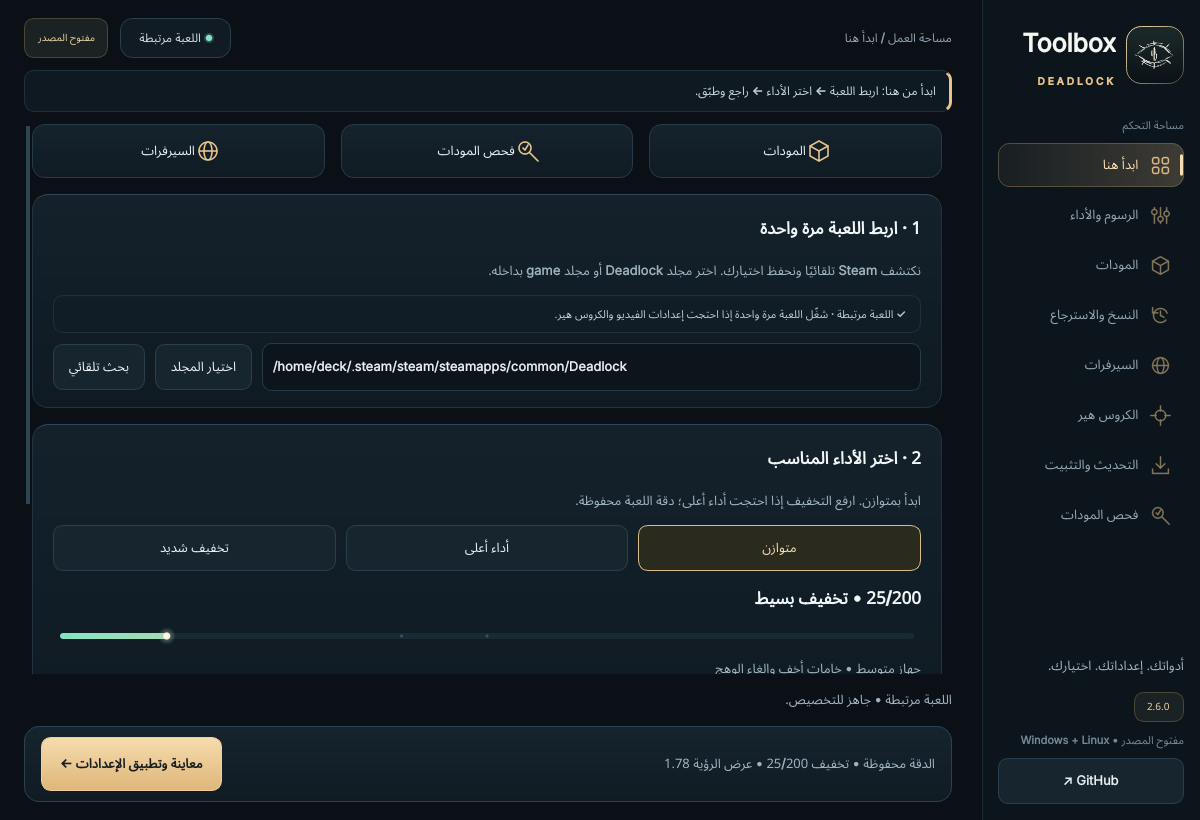
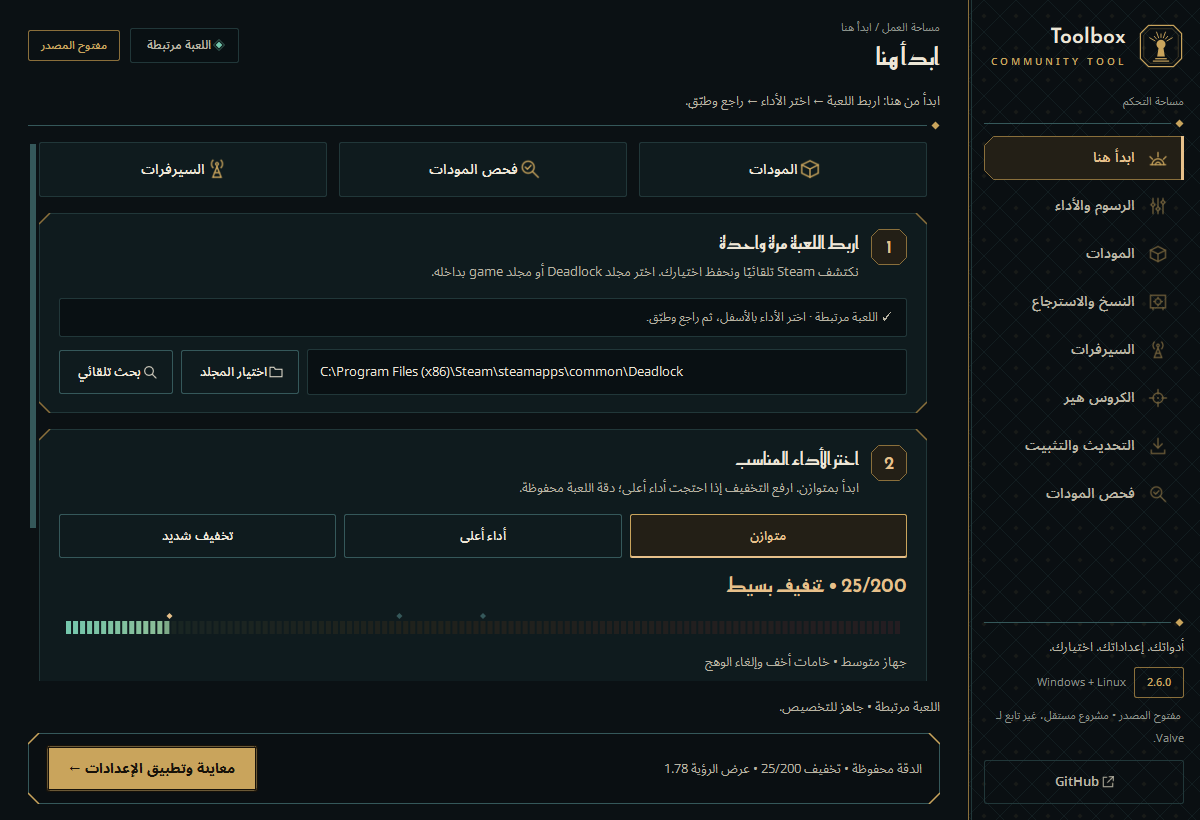
Polish: responsive toolbars, leading-aligned labels, empty and error states, new docs screenshots
Labels align to the layout's leading edge regardless of script; combos follow
their own direction; the drop zone, servers toolbar and crosshair toolbar
reflow at the 940x680 minimum; form columns centre on wide windows.
README, BUILD.md and all docs screenshots now show the new interface;
smoke_desktop.py checks the new asset paths.

diff --git a/deadlock_fps/server_ui.py b/deadlock_fps/server_ui.py
@@ -33,17 +33,17 @@ class ServerPage(QWidget):
 
         # Find and measure.
         row=QHBoxLayout();row.setSpacing(8);self.search=QLineEdit();self.search.setClearButtonEnabled(True);self.search.addAction(icon('search',T.TEXT_MUTED),QLineEdit.LeadingPosition);self.search.setPlaceholderText('ابحث بالعربي أو الإنجليزي: دبي، الإمارات، Frankfurt…');self.search.textChanged.connect(self.filter_rows);row.addWidget(self.search,1)
-        self.view_filter=QComboBox();self.view_filter.addItems(['كل المناطق','الحظر المحفوظ','المحددة فقط']);self.view_filter.setMinimumWidth(140);row.addWidget(self.view_filter)
+        self.view_filter=QComboBox();self.view_filter.addItems(['كل المناطق','الحظر المحفوظ','المحددة فقط']);self.view_filter.setMinimumWidth(128);row.addWidget(self.view_filter)
         self.ping_button=self.add_button(row,'قياس البنق',self.measure,'ping');self.ping_button.setToolTip('يقيس المناطق المحددة، أو كل المناطق الظاهرة إذا لم تحدد شيئًا.')
-        self.add_button(row,'تحديث القائمة',self.refresh,'refresh');layout.addLayout(row)
+        self.add_button(row,'تحديث القائمة',self.refresh,'refresh')
+        help_button=self.add_button(row,'',self.explain,'help');help_button.setToolTip('شرح');help_button.setAccessibleName('شرح');help_button.setFixedWidth(38);layout.addLayout(row)
 
         # Choose rows.
         row=QHBoxLayout();row.setSpacing(8);self.selection_note=QLabel();self.selection_note.setWordWrap(True);self.selection_note.setObjectName('selectionNotice');row.addWidget(self.selection_note,1)
         self.select_visible_button=self.add_button(row,'تحديد الظاهر',self.select_visible)
         clear_selection_button=self.add_button(row,'مسح التحديد',self.clear_selection)
         sort_button=self.add_button(row,'الأقل بنقًا',self.sort_ping,'sort')
-        saved=self.add_button(row,'اختياراتي',lambda:None);saved.setProperty('menu',True);self.saved_menu=QMenu(saved);saved.setMenu(self.saved_menu)
-        help_button=self.add_button(row,'شرح',self.explain,'help');layout.addLayout(row)
+        saved=self.add_button(row,'اختياراتي',lambda:None);saved.setProperty('menu',True);self.saved_menu=QMenu(saved);saved.setMenu(self.saved_menu);layout.addLayout(row)
         for button in (self.select_visible_button,clear_selection_button,sort_button,saved,help_button):button.setObjectName('quiet')
         self.selection_buttons=[self.select_visible_button,clear_selection_button,sort_button,saved,help_button]
         text=QLabel('اضغط أي مكان في سطر المنطقة لتحديدها. التحديد لا يغيّر الحظر حتى تختار إجراءً بالأسفل.');text.setWordWrap(True);text.setObjectName('sectionLabel');layout.addWidget(text)
@@ -57,7 +57,7 @@ class ServerPage(QWidget):
         self.table.horizontalHeader().setMinimumSectionSize(40);self.table.horizontalHeader().setHighlightSections(False)
         for col,width in [(0,65),(2,50),(3,85),(4,85),(5,135),(6,115)]:
             self.table.horizontalHeader().setSectionResizeMode(col,QHeaderView.Fixed);self.table.setColumnWidth(col,width)
-        self.table.verticalHeader().setVisible(False);self.table.verticalHeader().setDefaultSectionSize(60);self.table.setMinimumHeight(250);self.table.setAlternatingRowColors(True)
+        self.table.verticalHeader().setVisible(False);self.table.verticalHeader().setDefaultSectionSize(56);self.table.setMinimumHeight(250);self.table.setAlternatingRowColors(True)
         self.table.setShowGrid(False);self.table.viewport().setCursor(Qt.PointingHandCursor);layout.addWidget(self.table,1)
         self.empty=empty_state(self.table,'empty-regions','لا توجد مناطق مطابقة','غيّر البحث أو اختر «كل المناطق» من القائمة.')
         self.view_filter.currentIndexChanged.connect(self.filter_rows)

diff --git a/deadlock_fps/crosshair_ui.py b/deadlock_fps/crosshair_ui.py
@@ -184,9 +184,9 @@ class CrosshairPage(QWidget):
         self.profiles={};self.load_profiles();root=QVBoxLayout(self);root.setContentsMargins(0,0,0,0);root.setSpacing(12)
 
         # One toolbar: what is loaded, where to get another, and how to keep it.
-        row=QHBoxLayout();row.setSpacing(8);row.addWidget(Kicker('DESIGN'));self.presets=Combo();self.presets.setPlaceholderText('Choose a preset');self.presets.setMinimumWidth(150);row.addWidget(self.presets,1);self.rebuild_presets();self.presets.currentIndexChanged.connect(self.choose_preset)
+        row=QHBoxLayout();row.setSpacing(8);self.design_kicker=Kicker('DESIGN');row.addWidget(self.design_kicker);self.presets=Combo();self.presets.setPlaceholderText('Choose a preset');self.presets.setMinimumWidth(150);row.addWidget(self.presets,1);self.rebuild_presets();self.presets.currentIndexChanged.connect(self.choose_preset)
         self.design_name=note('Custom','previewMode');self.design_name.setWordWrap(False);row.addWidget(self.design_name,0,Qt.AlignVCenter)
-        self.gallery_button=QPushButton('PRO Crosshairs');self.gallery_button.setObjectName('primary');self.gallery_button.setIcon(icon('gallery',T.ON_BRASS));self.gallery_button.setIconSize(QSize(16,16));self.gallery_button.clicked.connect(self.open_gallery);row.addWidget(self.gallery_button)
+        self.gallery_button=QPushButton('PRO Crosshairs');self.gallery_button.setObjectName('primary');self.gallery_button.setIcon(icon('gallery',T.ON_BRASS));self.gallery_button.setIconSize(QSize(16,16));self.gallery_button.clicked.connect(self.open_gallery);self.gallery_button.setMinimumWidth(self.gallery_button.sizeHint().width()+14);row.addWidget(self.gallery_button)
         save=QPushButton('Save');save.setIcon(icon('save',T.TEXT));save.setIconSize(QSize(16,16));save.clicked.connect(self.save_profile);row.addWidget(save);share=QPushButton('Share');share.setProperty('menu',True);menu=QMenu(share)
         for title,fn in [('Copy Toolbox code',self.copy_code),('Paste Toolbox code',self.paste_code),('Export JSON',self.export_file),('Import JSON',self.import_file),('Delete saved design',self.delete_profile)]:menu.addAction(title,fn)
         share.setMenu(menu);row.addWidget(share);root.addLayout(row)
@@ -245,7 +245,7 @@ class CrosshairPage(QWidget):
         super().showEvent(event)
         if not self.loaded or self.loaded_context!=self.context():self.reload_current()
     def resizeEvent(self,event):
-        desired=Qt.Vertical if self.width()<600 else Qt.Horizontal
+        desired=Qt.Vertical if self.width()<600 else Qt.Horizontal;self.design_kicker.setVisible(self.width()>=760)
         if self.splitter.orientation()!=desired:self.splitter.setOrientation(desired);self.splitter.setSizes([230,max(160,self.height()-230)] if desired==Qt.Vertical else [420,520])
         super().resizeEvent(event)
     def toggle_calibration(self,*_):

diff --git a/scripts/make_screenshots.py b/scripts/make_screenshots.py
@@ -23,6 +23,7 @@ os.environ.setdefault('QT_ENABLE_HIGHDPI_SCALING', '0')
 from PySide6.QtCore import Qt, QThreadPool  # noqa: E402
 from PySide6.QtWidgets import QApplication  # noqa: E402
 
+SHOWN_PATH = r'C:\Program Files (x86)\Steam\steamapps\common\Deadlock'
 NAMES = ['overview', 'graphics', 'mods', 'backups', 'servers', 'crosshair', 'update-center', 'mod-inspector']
 DOCS = {'overview': 'screenshot.png', 'graphics': 'graphics.png', 'mods': 'mods.png', 'backups': 'backups.png', 'servers': 'servers.png',
         'crosshair': 'crosshair.png', 'update-center': 'update-center.png', 'mod-inspector': 'mod-inspector.png'}
@@ -91,8 +92,29 @@ def main():
                     app.processEvents()
                     time.sleep(.01)
                 name = DOCS[NAMES[index]] if docs else '%d-%s-%dx%d.png' % (index, NAMES[index], width, height)
+                real = window.path.text()
+                window.path.setText(SHOWN_PATH)      # never publish the temporary folder (it contains the user name)
+                app.processEvents()
                 window.grab().save(str(target / name))
+                window.path.setText(real)
                 print(target / name)
+            if '--dialogs' in sys.argv or docs:
+                from types import SimpleNamespace
+                from deadlock_fps.crosshair_ui import CrosshairGallery
+                from deadlock_fps.mod_ui import ModReview
+                gallery = CrosshairGallery(window.crosshair.profiles, window.crosshair)
+                plan = {game / 'game/citadel/fps_studio/pak01_dir.vpk': b'0' * 48213, game / 'game/citadel/gameinfo.gi': b'0' * 9120}
+                finding = SimpleNamespace(severity='warning', title='Daylock', detail='جرّب الوضوح داخل التدريب بعد التركيب.')
+                review = ModReview(SimpleNamespace(plan=plan, settings=SimpleNamespace(mods=('daylock',)), report=SimpleNamespace(findings=[finding])), window.mods_page)
+                for name, dialog in (('crosshair-gallery', gallery), ('mod-review', review)):
+                    dialog.setAttribute(Qt.WA_DontShowOnScreen)
+                    dialog.show()
+                    settle(app, 2)
+                    if not (docs and name == 'mod-review'):
+                        path = target / (name + '.png' if docs else 'dialog-%s.png' % name)
+                        dialog.grab().save(str(path))
+                        print(path)
+                    dialog.close()
             window.close()
             settle(app, 2)
 

diff --git a/deadlock_fps/mod_ui.py b/deadlock_fps/mod_ui.py
@@ -2,7 +2,7 @@
 from pathlib import Path
 import threading
 from PySide6.QtCore import Qt,QThreadPool,QSize,Signal
-from PySide6.QtWidgets import QWidget,QFrame,QVBoxLayout,QHBoxLayout,QGridLayout,QLabel,QPushButton,QCheckBox,QScrollArea,QFileDialog,QMenu,QProgressBar,QDialog,QPlainTextEdit
+from PySide6.QtWidgets import QWidget,QFrame,QVBoxLayout,QHBoxLayout,QBoxLayout,QGridLayout,QLabel,QPushButton,QCheckBox,QScrollArea,QFileDialog,QMenu,QProgressBar,QDialog,QPlainTextEdit
 from .settings import MODS
 from .core import Studio,game_root
 from .mods import ImportCancelled
@@ -16,9 +16,14 @@ class DropArea(Panel):
     dropped=Signal(object)
     def __init__(self):
         super().__init__(name='dropArea',margins=(18,14,18,14),spacing=0);self.setAcceptDrops(True);self.setMinimumHeight(96);self.dashed=True;self.pattern='chevron'
-        layout=QHBoxLayout();layout.setSpacing(14);self.body.addLayout(layout);layout.addWidget(Plate(icon_name='mods',size=48),0,Qt.AlignVCenter)
+        self.flow=QBoxLayout(QBoxLayout.LeftToRight);self.flow.setSpacing(12);self.body.addLayout(self.flow);layout=QHBoxLayout();layout.setSpacing(14);self.flow.addLayout(layout,1);layout.addWidget(Plate(icon_name='mods',size=48),0,Qt.AlignVCenter)
         copy=QVBoxLayout();copy.setSpacing(2);copy.addWidget(text('اسحب الحزمة هنا. واترك الباقي للأداة.','lead'));copy.addWidget(text('ZIP أو VPK أو مجلد MODS • يتعرف على المودات حتى لو تغيّر اسم الملف.','subtitle'));layout.addLayout(copy,1)
-        self.actions=QHBoxLayout();self.actions.setSpacing(8);layout.addLayout(self.actions)
+        self.actions=QHBoxLayout();self.actions.setSpacing(8);self.flow.addLayout(self.actions)
+    def resizeEvent(self,event):
+        super().resizeEvent(event);narrow=self.width()<640
+        if narrow!=(self.flow.direction()==QBoxLayout.TopToBottom):
+            self.flow.setDirection(QBoxLayout.TopToBottom if narrow else QBoxLayout.LeftToRight);self.actions.setContentsMargins(62 if narrow else 0,0,0,0)
+            if narrow and self.actions.count()==2:self.actions.addStretch()
     def look(self):
         if self.property('dragging'):return T.VERDIGRIS_WASH,T.VERDIGRIS,T.VERDIGRIS,2.
         return (T.SUNKEN,T.LINE_STRONG if self.isEnabled() else T.LINE,T.BRASS_DEEP,1.)

diff --git a/deadlock_fps/update_ui.py b/deadlock_fps/update_ui.py
@@ -43,7 +43,7 @@ class UpdatePage(QWidget):
         self.download_folder=Path(download_folder or (Path(QStandardPaths.writableLocation(QStandardPaths.DownloadLocation) or str(Path.home()/'Downloads'))/'Deadlock Toolbox'))
         self.client=UpdateClient(self.store,self,manager)
         root=QVBoxLayout(self);root.setContentsMargins(0,0,0,0);root.setSpacing(12)
-        scroll=QScrollArea();scroll.setWidgetResizable(True);body=QWidget();outer=QHBoxLayout(body);outer.setContentsMargins(0,0,12,0);column=QWidget();column.setMaximumWidth(1080);v=QVBoxLayout(column);v.setContentsMargins(0,0,0,0);v.setSpacing(16);outer.addWidget(column,1);outer.addStretch(0);scroll.setWidget(body);root.addWidget(scroll,1)
+        scroll=QScrollArea();scroll.setWidgetResizable(True);body=QWidget();outer=QHBoxLayout(body);outer.setContentsMargins(0,0,12,0);column=QWidget();column.setMaximumWidth(1080);v=QVBoxLayout(column);v.setContentsMargins(0,0,0,0);v.setSpacing(16);outer.addStretch(1);outer.addWidget(column,1000);outer.addStretch(1);scroll.setWidget(body);root.addWidget(scroll,1)
         v.addWidget(UtilityHeader(6,'التحديث والتثبيت','افحص، نزّل، ثم ثبّت بضغطة. بدون نقل ملفات يدويًا.','UPDATE / INSTALL'))
 
         # Where things stand, and the one button that refreshes it.

diff --git a/deadlock_fps/design.py b/deadlock_fps/design.py
@@ -234,7 +234,7 @@ QPushButton#danger {background:transparent;color:@CRIMSON_TEXT;border-color:@CRI
 QPushButton#danger:hover {background:@CRIMSON;border-color:@CRIMSON;color:@TEXT;}
 QPushButton#danger:pressed {background:@CRIMSON_LINE;color:@TEXT;}
 QPushButton#danger:disabled {color:@TEXT_OFF;background:@SUNKEN;border-color:@LINE;}
-QPushButton#quiet {background:transparent;border:1px solid @LINE;color:@TEXT_SOFT;}
+QPushButton#quiet {background:transparent;border:1px solid @LINE;color:@TEXT_SOFT;padding:7px 12px;}
 QPushButton#quiet:hover {background:@SURFACE;border-color:@BRASS_DEEP;color:@BRASS_BRIGHT;}
 QPushButton#quiet:checked {background:@BRASS_WASH;border-color:@BRASS_DEEP;color:@BRASS_BRIGHT;}
 QPushButton#quiet:disabled {color:@TEXT_OFF;border-color:@LINE;background:transparent;}
@@ -558,7 +558,7 @@ class EmptyState(QWidget):
         self.art = QLabel()
         self.art.setAlignment(Qt.AlignCenter)
         layout.addWidget(self.art)
-        self.title = label(title, 'cardtitle')
+        self.title = label(title, 'lead')
         self.title.setAlignment(Qt.AlignCenter)
         layout.addWidget(self.title)
         self.detail = label(detail, 'subtitle')

diff --git a/deadlock_fps/ui.py b/deadlock_fps/ui.py
@@ -109,9 +109,9 @@ class Window(QMainWindow):
             self.inspector.cancel();self.mods_page.cancel()
             super().closeEvent(event)
     def page(self):
-        # Form pages keep one readable column; it hugs the leading edge on wide windows.
+        # Form pages keep one readable column, centred once the window is wider than it.
         page=QWidget();outer=QHBoxLayout(page);outer.setContentsMargins(0,0,12,0);outer.setSpacing(0)
-        column=QWidget();column.setMaximumWidth(1080);v=QVBoxLayout(column);v.setContentsMargins(0,0,0,0);v.setSpacing(16);outer.addWidget(column,1);outer.addStretch(0)
+        column=QWidget();column.setMaximumWidth(1080);v=QVBoxLayout(column);v.setContentsMargins(0,0,0,0);v.setSpacing(16);outer.addStretch(1);outer.addWidget(column,1000);outer.addStretch(1)
         scroll=QScrollArea();scroll.setWidgetResizable(True);scroll.setWidget(page);self.stack.addWidget(scroll)
         return v
     def primary_action(self):

diff --git a/scripts/smoke_desktop.py b/scripts/smoke_desktop.py
@@ -6,7 +6,7 @@ folder=root/'dist/DeadlockToolbox'
 binary=folder/('DeadlockToolbox.exe' if os.name=='nt' else 'DeadlockToolbox')
 assert binary.is_file(), binary
 internal=folder/'_internal'
-for path in ['assets/artwork/rem.jpg','assets/artwork/deadlock.jpg','assets/artwork/duo.jpg','assets/artwork/logo.jpg','assets/fonts/NotoSansArabic.ttf','assets/flags/ae.svg','assets/check.svg','assets/chevron-down.svg']:
+for path in ['assets/app.png','assets/brand/emblem.svg','assets/art/banner-mods.svg','assets/patterns/lattice.svg','assets/illustrations/empty-search.svg','assets/fonts/NotoSansArabic.ttf','assets/fonts/NotoSans.ttf','assets/fonts/ReemKufi.ttf','assets/flags/ae.svg','assets/icons/overview.svg','assets/icons/qss/check.svg','assets/icons/qss/chevron-down.svg']:
     assert (internal/path).is_file(),path
 assert list(internal.rglob('*qsvgicon*')), 'SVG icon plugin missing'
 assert list(internal.glob('PySide6/QtNetwork*')), 'Qt Network module missing'

diff --git a/deadlock_fps/motion.py b/deadlock_fps/motion.py
@@ -539,6 +539,8 @@ class Intro(QWidget):
         # The sunburst opens behind the emblem as it arrives.
         painter.setPen(QPen(alpha(GOLD, .22), 1))
         for index in range(48):
+            if 45 < index * 7.5 < 135:      # keep the rays clear of the title below the emblem
+                continue
             angle = math.radians(index * 7.5)
             inner, outer = 96, 96 + (150 if index % 4 == 0 else 96) * arrive
             painter.drawLine(QPointF(center.x() + inner * math.cos(angle), center.y() + inner * math.sin(angle)),

diff --git a/deadlock_fps/server_delegate.py b/deadlock_fps/server_delegate.py
@@ -88,7 +88,7 @@ class SelectionDelegate(ServerRowDelegate):
             painter.fillRect(QRect(leading, option.rect.top(), 3, option.rect.height()), QColor(CHECK_FILL))
             painter.setFont(cell_font(10))
             painter.setPen(QColor(T.BRASS_BRIGHT))
-            painter.drawText(option.rect.adjusted(0, 38, 0, 0), Qt.AlignCenter, 'محدد')
+            painter.drawText(option.rect.adjusted(0, 37, 0, 0), Qt.AlignCenter, 'محدد')
         painter.restore()
 
     def editorEvent(self, event, model, option, index):

diff --git a/assets/fonts/README.md b/assets/fonts/README.md
@@ -1,0 +1,11 @@
+# Bundled fonts
+
+All three families are licensed under the SIL Open Font License 1.1 and may be redistributed with the application.
+
+| File | Family | Role | License text |
+|---|---|---|---|
+| `ReemKufi.ttf` | Reem Kufi (variable, 400-700), by Khaled Hosny; Latin from Josefin Sans by Santiago Orozco | display: titles and numerals | `ReemKufi-OFL.txt` |
+| `NotoSans.ttf` | Noto Sans (variable), The Noto Project Authors | body text, Latin | `NotoSans-OFL.txt` |
+| `NotoSansArabic.ttf` | Noto Sans Arabic (variable), The Noto Project Authors | body text, Arabic | `../licenses/Noto-OFL.txt` |
+
+Reem Kufi and Noto Sans were taken unmodified from https://github.com/google/fonts (`ofl/reemkufi`, `ofl/notosans`).

diff --git a/README.md b/README.md
@@ -41,6 +41,8 @@
 
 الكود مفتوح المصدر ويمكنك تعديله. [البناء من المصدر](docs/BUILD.md) · [ترخيص الكود](LICENSE) · [حقوق المحتوى](THIRD_PARTY.md).
 
+الواجهة بهوية أصلية مرسومة بالكود: حبر وأزرق مخضر داكن ونحاس معتّق بروح آرت ديكو. كل الأيقونات والرسوم والخطوط حرة ومولّدة من `scripts/make_assets.py`؛ لا تُستخدم شعارات أو رسومات Valve. [دليل التصميم](docs/DESIGN.md) · [لوحة الأصول](docs/contact-sheet.png).
+
 مشروع مستقل من المجتمع، غير تابع لـ Valve.
 
 </details>
